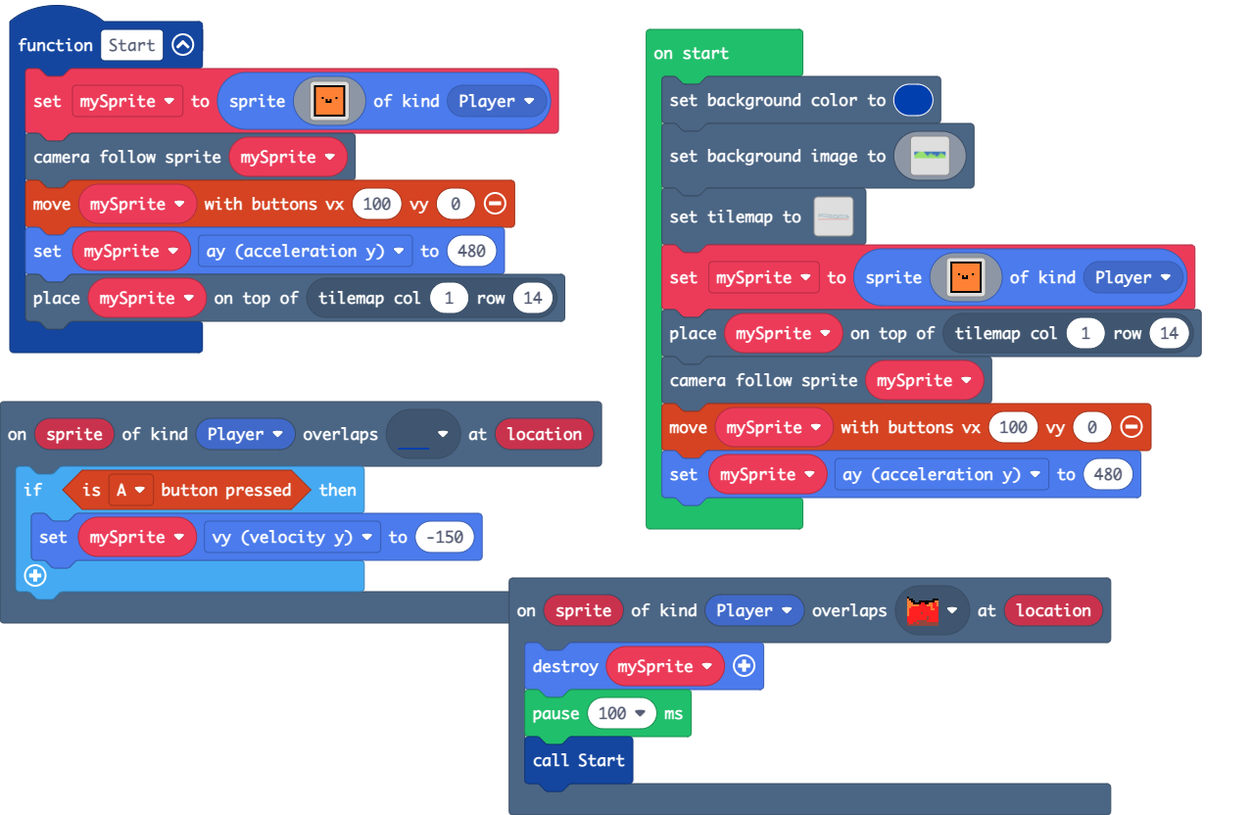
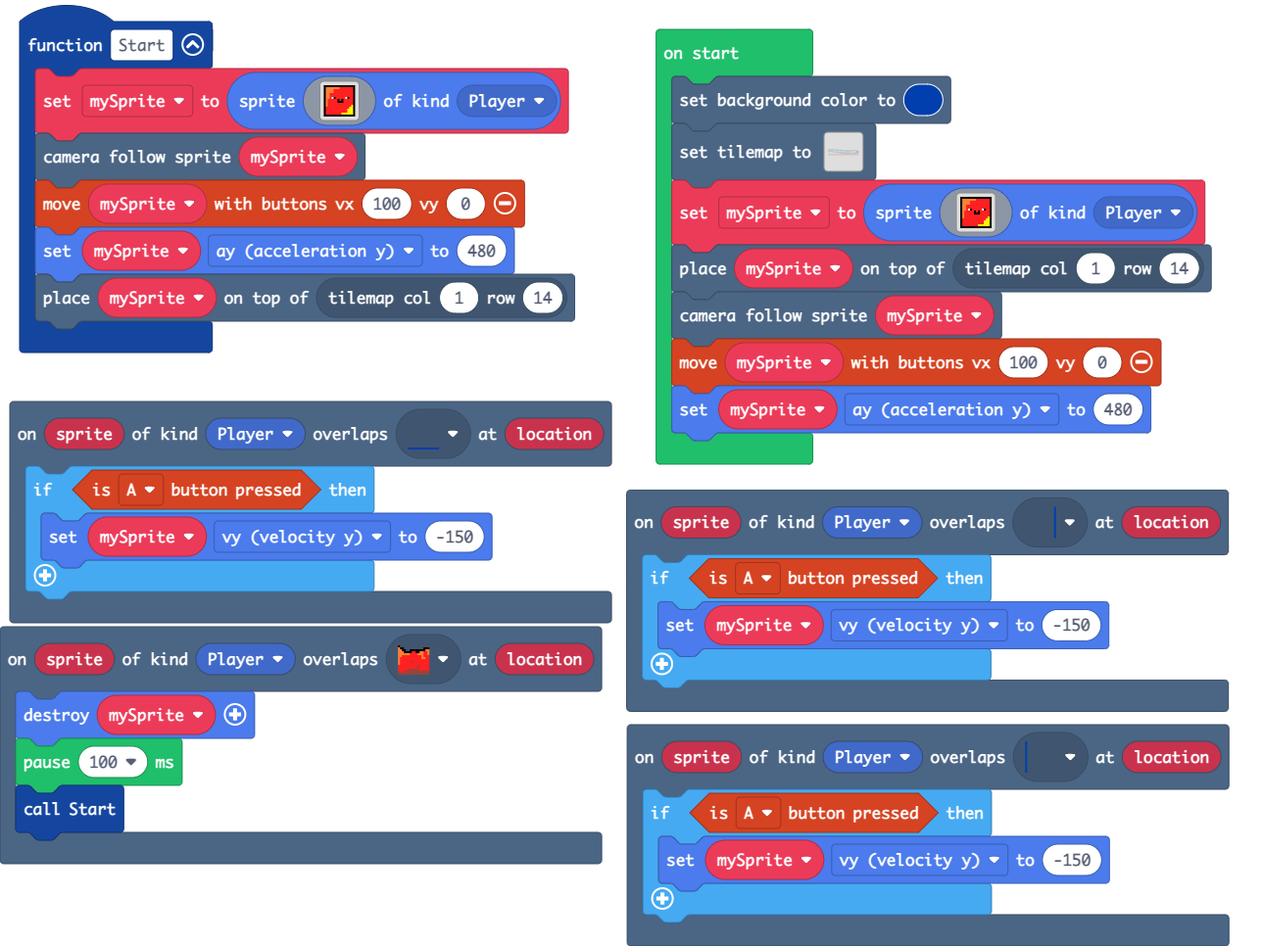
Update pxt.json, main.blocks, main.ts, images.g.jres, images.g.ts, tilemap.g.jres, tilemap.g.ts

diff --git a/tilemap.g.ts b/tilemap.g.ts
@@ -3,8 +3,6 @@ namespace myTiles {
     //% fixedInstance jres blockIdentity=images._tile
     export const transparency16 = image.ofBuffer(hex``);
     //% fixedInstance jres blockIdentity=images._tile
-    export const tile1 = image.ofBuffer(hex``);
-    //% fixedInstance jres blockIdentity=images._tile
     export const tile3 = image.ofBuffer(hex``);
     //% fixedInstance jres blockIdentity=images._tile
     export const tile4 = image.ofBuffer(hex``);
@@ -22,71 +20,25 @@ namespace myTiles {
     export const tile2 = image.ofBuffer(hex``);
     //% fixedInstance jres blockIdentity=images._tile
     export const tile5 = image.ofBuffer(hex``);
+    //% fixedInstance jres blockIdentity=images._tile
+    export const tile11 = image.ofBuffer(hex``);
+    //% fixedInstance jres blockIdentity=images._tile
+    export const tile1 = image.ofBuffer(hex``);
+    //% fixedInstance jres blockIdentity=images._tile
+    export const tile12 = image.ofBuffer(hex``);
+    //% fixedInstance jres blockIdentity=images._tile
+    export const tile13 = image.ofBuffer(hex``);
 
     helpers._registerFactory("tilemap", function(name: string) {
         switch(helpers.stringTrim(name)) {
-            case "level2":
-            case "level2":return tiles.createTilemap(hex`1000100000000000000000000000000000000000000000000000000000000000000000000000000000000000000000000000000000000000000000000000000000000000000000000000000000000000000000000101010101010101010101010101000001010101010101010101010101010000010101010101010101010101010100000000000000000000000000000000000000000000000000000000000000000000000000000000000000000000000000000000000000000000000000000000000000000000000000000000000000000000000000000000000000000000000000000000000000000000000000000000000000000000000000000000000000000000`, img`
-. . . . . . . . . . . . . . . . 
-. . . . . . . . . . . . . . . . 
-. . . . . . . . . . . . . . . . 
-. . . . . . . . . . . . . . . . 
-. . . . . . . . . . . . . . . . 
-2 2 2 2 2 2 2 2 2 2 2 2 2 2 . . 
-. . . . . . . . . . . . . . . . 
-. . . . . . . . . . . . . . . . 
-. . . . . . . . . . . . . . . . 
-. . . . . . . . . . . . . . . . 
-. . . . . . . . . . . . . . . . 
-. . . . . . . . . . . . . . . . 
-. . . . . . . . . . . . . . . . 
-. . . . . . . . . . . . . . . . 
-. . . . . . . . . . . . . . . . 
-. . . . . . . . . . . . . . . . 
-`, [myTiles.transparency16,sprites.builtin.forestTiles0], TileScale.Sixteen);
-            case "level3":
[1 lines of base64/hex data omitted]
-.................................................................................................................................................................
-.................................................................................................................................................................
-.................................................................................................................................................................
-.................................................................................................................................................................
-.................................................................................................................................................................
-.................................................................................................................................................................
-.................................................................................................................................................................
-.................................................................................................................................................................
-.................................................................................................................................................................
-.................................................................................................................................................................
-.................................................................................................................................................................
-.................................................................................................................................................................
-.................................................................................................................................................................
-.................................................................................................................................................................
-.................................................................................................................................................................
-.................................................................................................................................................................
-.................................................................................................................................................................
-.................................................................................................................................................................
-.................................................................................................................................................................
-.................................................................................................................................................................
-.................................................................................................................................................................
-.................................................................................................................................................................
-.................................................................................................................................................................
-.................................................................................................................................................................
-.................................................................................................................................................................
-.................................................................................................................................................................
-.................................................................................................................................................................
-.................................................................................................................................................................
-.................................................................................................................................................................
-.................................................................................................................................................................
-.................................................................................................................................................................
-2222222222222222222222222222222222222222222222222222222222222222222222222222222222222222222222222222222222222222222222222222222222222222222222222222222222222222.
-`, [myTiles.transparency16,sprites.builtin.forestTiles0,sprites.castle.tileDarkGrass2,myTiles.tile1], TileScale.Sixteen);
             case "level4":
[2 lines of base64/hex data omitted]
 22222222222222222222222222222222222222222222222222222222222222222222222222222222222222222222222222222222222222222222222222222222222222222222222222222222222222222
 2...............................................................................................................................................................2
 2...............................................................................................................................................................2
 2..................................2............................................................................................................................2
 2...............22.............22.....22........................................................................................................................2
-22222.22.......22...22...................2...2..................................................................................................................2
+22222.22.......22...22...................2...22.................................................................................................................2
 2.........22...........2222...................22................................................................................................................2
 2................................................2222......2222.................................................................................................2
 2.....................................................2.........2222..........................................222............222.........222....................2
@@ -111,26 +63,7 @@ namespace myTiles {
 2...............................................................................................................................................................2
 2...............................................................................................................................................................2
 ................................................................................................................................................................2
-`, [myTiles.transparency16,myTiles.tile2,myTiles.tile3,myTiles.tile4,myTiles.tile5,sprites.builtin.forestTiles2,myTiles.tile6,myTiles.tile7,sprites.castle.tileDarkGrass2,sprites.builtin.forestTiles21,myTiles.tile8,myTiles.tile9,myTiles.tile10,sprites.castle.saplingPine,sprites.builtin.forestTiles0,sprites.castle.shrub], TileScale.Sixteen);
-            case "level1":
-            case "level1":return tiles.createTilemap(hex`1000100000000000000000000000000000000000000000000000000000000000000000000000000000000000000000000000000000000000000000000000000000000000000000000000000000000000000000000000000000000000000000000000000000000000000000000000000000000000000000000000000000000000000000000000000000000000000000000000000000000000000000000000000000000000000000000000000000000000000000000000000000000000000000000000000000000000000000000000000000000000000000000000000000000000000000000000000000000000000000000000000000000000000000000000000000000000`, img`
-. . . . . . . . . . . . . . . . 
-. . . . . . . . . . . . . . . . 
-. . . . . . . . . . . . . . . . 
-. . . . . . . . . . . . . . . . 
-. . . . . . . . . . . . . . . . 
-. . . . . . . . . . . . . . . . 
-. . . . . . . . . . . . . . . . 
-. . . . . . . . . . . . . . . . 
-. . . . . . . . . . . . . . . . 
-. . . . . . . . . . . . . . . . 
-. . . . . . . . . . . . . . . . 
-. . . . . . . . . . . . . . . . 
-. . . . . . . . . . . . . . . . 
-. . . . . . . . . . . . . . . . 
-. . . . . . . . . . . . . . . . 
-. . . . . . . . . . . . . . . . 
-`, [myTiles.transparency16], TileScale.Sixteen);
+`, [myTiles.transparency16,myTiles.tile2,myTiles.tile3,myTiles.tile4,myTiles.tile5,sprites.builtin.forestTiles2,myTiles.tile6,myTiles.tile7,sprites.castle.tileDarkGrass2,sprites.builtin.forestTiles21,myTiles.tile8,myTiles.tile9,myTiles.tile10,sprites.castle.saplingPine,sprites.builtin.forestTiles0,sprites.castle.shrub,myTiles.tile11,myTiles.tile1,myTiles.tile12,myTiles.tile13], TileScale.Sixteen);
         }
         return null;
     })
@@ -138,8 +71,6 @@ namespace myTiles {
     helpers._registerFactory("tile", function(name: string) {
         switch(helpers.stringTrim(name)) {
             case "transparency16":return transparency16;
-            case "myTile":
-            case "tile1":return tile1;
             case "tile3":return tile3;
             case "tile4":return tile4;
             case "tile6":return tile6;
@@ -149,6 +80,12 @@ namespace myTiles {
             case "tile10":return tile10;
             case "tile2":return tile2;
             case "tile5":return tile5;
+            case "Temporary asset0":
+            case "tile11":return tile11;
+            case "Temporary asset1":
+            case "tile1":return tile1;
+            case "tile12":return tile12;
+            case "tile13":return tile13;
         }
         return null;
     })

diff --git a/images.g.ts b/images.g.ts
@@ -3,148 +3,6 @@ namespace myImages {
 
     helpers._registerFactory("image", function(name: string) {
         switch(helpers.stringTrim(name)) {
-            case "image2":
-            case "myImage0":return img`
-................................................................................................................................................................
-................................................................................................................................................................
-................................................................................................................................................................
-................................................................................................................................................................
-................................................................................................................................................................
-................................................................................................................................................................
-................................................................................................................................................................
-................................................................................................................................................................
-................................................................................................................................................................
-................................................................................................................................................................
-................................................................................................................................................................
-................................................................................................................................................................
-................................................................................................................................................................
-................................................................................................................................................................
-................................................................................................................................................................
-................................................................................................................................................................
-................................................................................................................................................................
-................................................................................................................................................................
-................................................................................................................................................................
-................................................................................................................................................................
-................................................................................................................................................................
-................................................................................................................................................................
-................................................................................................................................................................
-................................................................................................................................................................
-................................................................................................................................................................
-................................................................................................................................................................
-................................................................................................................................................................
-................................................................................................................................................................
-................................................................................................................................................................
-................................................................................................................................................................
-................................................................................................................................................................
-................................................................................................................................................................
-................................................................................................................................................................
-................................................................................................................................................................
-................................................................................................................................................................
-................................................................................................................................................................
-................................................................................................................................................................
-................................................................................................................................................................
-................................................................................................................................................................
-................................................................................................................................................................
-................................................................................................................................................................
-................................................................................................................................................................
-................................................................................................................................................................
-................................................................................................................................................................
-................................................................................................................................................................
-................................................................................................................................................................
-................................................................................................................................................................
-................................................................................................................................................................
-................................................................................................................................................................
-................................................................................................................................................................
-................................................................................................................................................................
-................................................................................................................................................................
-................................................................................................................................................................
-................................................................................................................................................................
-................................................................................................................................................................
-................................................................................................................................................................
-................................................................................................................................................................
-................................................................................................................................................................
-................................................................................................................................................................
-................................................................................................................................................................
-................................................................................................................................................................
-................................................................................................................................................................
-................................................................................................................................................................
-................................................................................................................................................................
-................................................................................................................................................................
-................................................................................................................................................................
-................................................................................................................................................................
-................................................................................................................................................................
-................................................................................................................................................................
-................................................................................................................................................................
-................................................................................................................................................................
-................................................................................................................................................................
-................................................................................................................................................................
-................................................................................................................................................................
-................................................................................................................................................................
-................................................................................................................................................................
-................................................................................................................................................................
-................................................................................................................................................................
-................................................................................................................................................................
-................................................................................................................................................................
-................................................................................................................................................................
-................................................................................................................................................................
-................................................................................................................................................................
-................................................................................................................................................................
-................................................................................................................................................................
-................................................................................................................................................................
-1..............................................................................................................................................................1
-1..............................................................................................................................................................1
-1..............................................................................................................................................................1
-1..............................................................................................................................................................1
-1..............................................................................................................................................................1
-1..............................................................................................................................................................1
-1..............................................................................................................................................................1
-1..............................................................................................................................................................1
-1..............................................................................................................................................................1
-1..............................................................................................................................................................1
-1..............................................................................................................................................................1
-1..............................................................................................................................................................1
-1..............................................................................................................................................................1
-1..............................................................................................................................................................1
-1..............................................................................................................................................................1
-1..............................................................................................................................................................1
-1..............................................................................................................................................................1
-1..............................................................................................................................................................1
-1..............................................................................................................................................................1
-1..............................................................................................................................................................1
-1..............................................................................................................................................................1
-1..............................................................................................................................................................1
-1..............................................................................................................................................................1
-1..............................................................................................................................................................1
-1..............................................................................................................................................................1
-1..............................................................................................................................................................1
-1..............................................................................................................................................................1
-1..............................................................................................................................................................1
-1..............................................................................................................................................................1
-1..............................................................................................................................................................1
-1..............................................................................................................................................................1
-1..............................................................................................................................................................1
-1..............................................................................................................................................................1
-1111111111111111111111111111111111111111111111111111111111111111111111111111111111111111111111111111111111111111111111111111111111111111111111111111111111111111
-`;
-            case "image1":
-            case "myImage":return img`
-f f f f f f f f f f f f f f f f 
-f 4 4 4 4 4 4 4 4 4 4 4 4 4 4 f 
-f 4 4 4 4 4 4 4 4 4 4 4 4 4 4 f 
-f 4 4 4 4 4 4 4 4 4 4 4 4 4 4 f 
-f 4 4 4 4 4 4 4 4 4 4 4 4 4 4 f 
-f 4 4 4 4 4 4 4 4 4 4 4 4 4 4 f 
-f 4 4 4 f 4 4 4 4 4 4 f 4 4 4 f 
-f 4 4 4 4 4 f 4 f 4 4 4 4 4 4 f 
-f 4 4 4 4 4 f f f 4 4 4 4 4 4 f 
-f 4 4 4 4 4 4 4 4 4 4 4 4 4 4 f 
-f 4 4 4 4 4 4 4 4 4 4 4 4 4 4 f 
-f 4 4 4 4 4 4 4 4 4 4 4 4 4 4 f 
-f 4 4 4 4 4 4 4 4 4 4 4 4 4 4 f 
-f 4 4 4 4 4 4 4 4 4 4 4 4 4 4 f 
-f 4 4 4 4 4 4 4 4 4 4 4 4 4 4 f 
-f f f f f f f f f f f f f f f f 
-`;
             case "image3":
             case "myImage1":return img`
[1 lines of base64/hex data omitted]
@@ -179,6 +37,63 @@ f f f f f f f f f f f f f f f f
 6677777777777777777777777777777777777777777777777777777777777777777777777777776777777777777777777777777777777777777777777667777777777777777777777777777777777777
 6667777777777777777777777777777777777777777777777777777777777777777777777777777777777777777777777777777777777777777777777666777777777777777777777777777777777777
 6666677777777777777777777777777777777777777777777777777777777777777777777777777777777777777777777777777777777777777777777776677777777777777777777777777777777777
+`;
+            case "image1":
+            case "myImage":return img`
+f f f f f f f f f f f f f f f f 
+f 4 4 4 4 4 4 4 2 2 2 2 2 2 2 f 
+f 4 4 4 4 2 2 2 2 2 2 2 2 2 2 f 
+f 4 4 4 4 2 2 2 2 2 2 2 2 2 2 f 
+f 4 4 2 2 2 2 2 2 2 2 2 2 2 2 f 
+f 4 4 2 2 2 2 2 2 2 2 2 2 2 2 f 
+f 4 4 2 1 f 2 2 2 2 2 1 f 2 2 f 
+f 4 2 2 2 2 2 f 2 f 2 2 2 2 2 f 
+f 4 2 2 2 2 2 f f f 2 2 2 2 2 f 
+f 4 2 2 2 2 2 2 2 2 2 2 2 2 2 f 
+f 4 2 2 2 2 2 2 2 2 2 2 2 2 5 f 
+f 2 2 2 2 2 2 2 2 2 2 2 2 5 5 f 
+f 2 2 2 2 2 2 2 2 2 2 2 5 5 5 f 
+f 2 2 2 2 2 2 2 2 2 2 2 5 5 5 f 
+f 2 2 2 2 2 2 2 2 5 5 5 5 5 5 f 
+f f f f f f f f f f f f f f f f 
+`;
+            case "image2":
+            case "myImage0":return img`
+6 f f 6 7 7 f f f f f 6 f f f f 
+7 6 7 7 4 4 7 4 2 2 2 2 2 7 2 f 
+7 6 4 4 7 7 6 6 7 7 6 2 2 2 2 f 
+f 6 4 7 6 6 2 6 2 2 6 7 6 2 2 f 
+f 4 6 7 2 6 2 2 7 2 2 2 2 2 2 f 
+f 7 7 2 2 2 2 2 2 6 6 2 2 2 7 f 
+7 4 7 2 1 1 2 2 2 7 2 1 1 2 6 f 
+7 4 2 6 2 2 2 2 2 2 7 2 2 2 2 f 
+f 4 2 7 2 2 2 f f f 2 6 2 2 2 f 
+f 6 2 2 7 2 2 2 2 2 2 2 2 2 2 f 
+f 4 2 2 7 2 2 2 2 7 2 2 2 2 5 f 
+f 2 7 2 2 2 7 2 2 2 2 2 2 5 5 f 
+f 2 6 2 2 2 2 2 2 2 2 2 5 5 5 f 
+f 2 2 2 2 2 6 2 2 2 2 2 5 5 5 f 
+f 2 2 2 2 2 7 2 2 5 5 5 5 5 5 f 
+f f f 6 f f f f f f f f f f f f 
+`;
+            case "image4":
+            case "myImage2":return img`
+1 f f 6 7 7 f f f f f 6 f f f f 
+7 6 7 7 1 1 7 1 1 1 1 1 1 7 1 f 
+7 6 1 1 7 7 6 6 7 7 6 1 1 1 1 f 
+f 6 1 7 6 6 1 6 1 1 6 7 6 1 1 f 
+f 1 6 7 1 6 1 1 7 1 1 1 1 1 1 f 
+f 7 7 1 1 1 1 1 1 6 6 1 1 1 7 f 
+7 1 7 1 2 2 1 1 1 7 2 2 1 1 6 f 
+7 1 1 6 1 1 1 1 1 1 7 1 1 1 1 f 
+f 1 1 7 1 1 1 f f f 1 6 1 1 1 f 
+f 6 1 1 7 1 1 1 1 1 1 1 1 1 1 f 
+f 1 1 1 7 1 1 1 1 7 1 1 1 1 1 f 
+f 1 7 1 1 1 7 1 1 1 1 1 1 1 1 f 
+f 1 6 1 1 1 1 1 1 1 1 1 1 1 1 f 
+f 1 1 1 1 1 6 1 1 1 1 1 1 1 1 f 
+f 1 1 1 1 1 7 1 1 1 1 1 1 1 1 f 
+f f f 6 f f f f f f f f f f f f 
 `;
         }
         return null;

diff --git a/main.ts b/main.ts
@@ -18,9 +18,18 @@ scene.onOverlapTile(SpriteKind.Player, assets.tile`tile2`, function (sprite, loc
     pause(100)
     Start()
 })
+scene.onOverlapTile(SpriteKind.Player, assets.tile`Temporary asset0`, function (sprite, location) {
+    if (controller.A.isPressed()) {
+        mySprite.vy = -150
+    }
+})
+scene.onOverlapTile(SpriteKind.Player, assets.tile`Temporary asset1`, function (sprite, location) {
+    if (controller.A.isPressed()) {
+        mySprite.vy = -150
+    }
+})
 let mySprite: Sprite = null
 scene.setBackgroundColor(8)
-scene.setBackgroundImage(assets.image`myImage1`)
 tiles.setTilemap(tilemap`level4`)
 mySprite = sprites.create(assets.image`myImage`, SpriteKind.Player)
 tiles.placeOnTile(mySprite, tiles.getTileLocation(1, 14))
